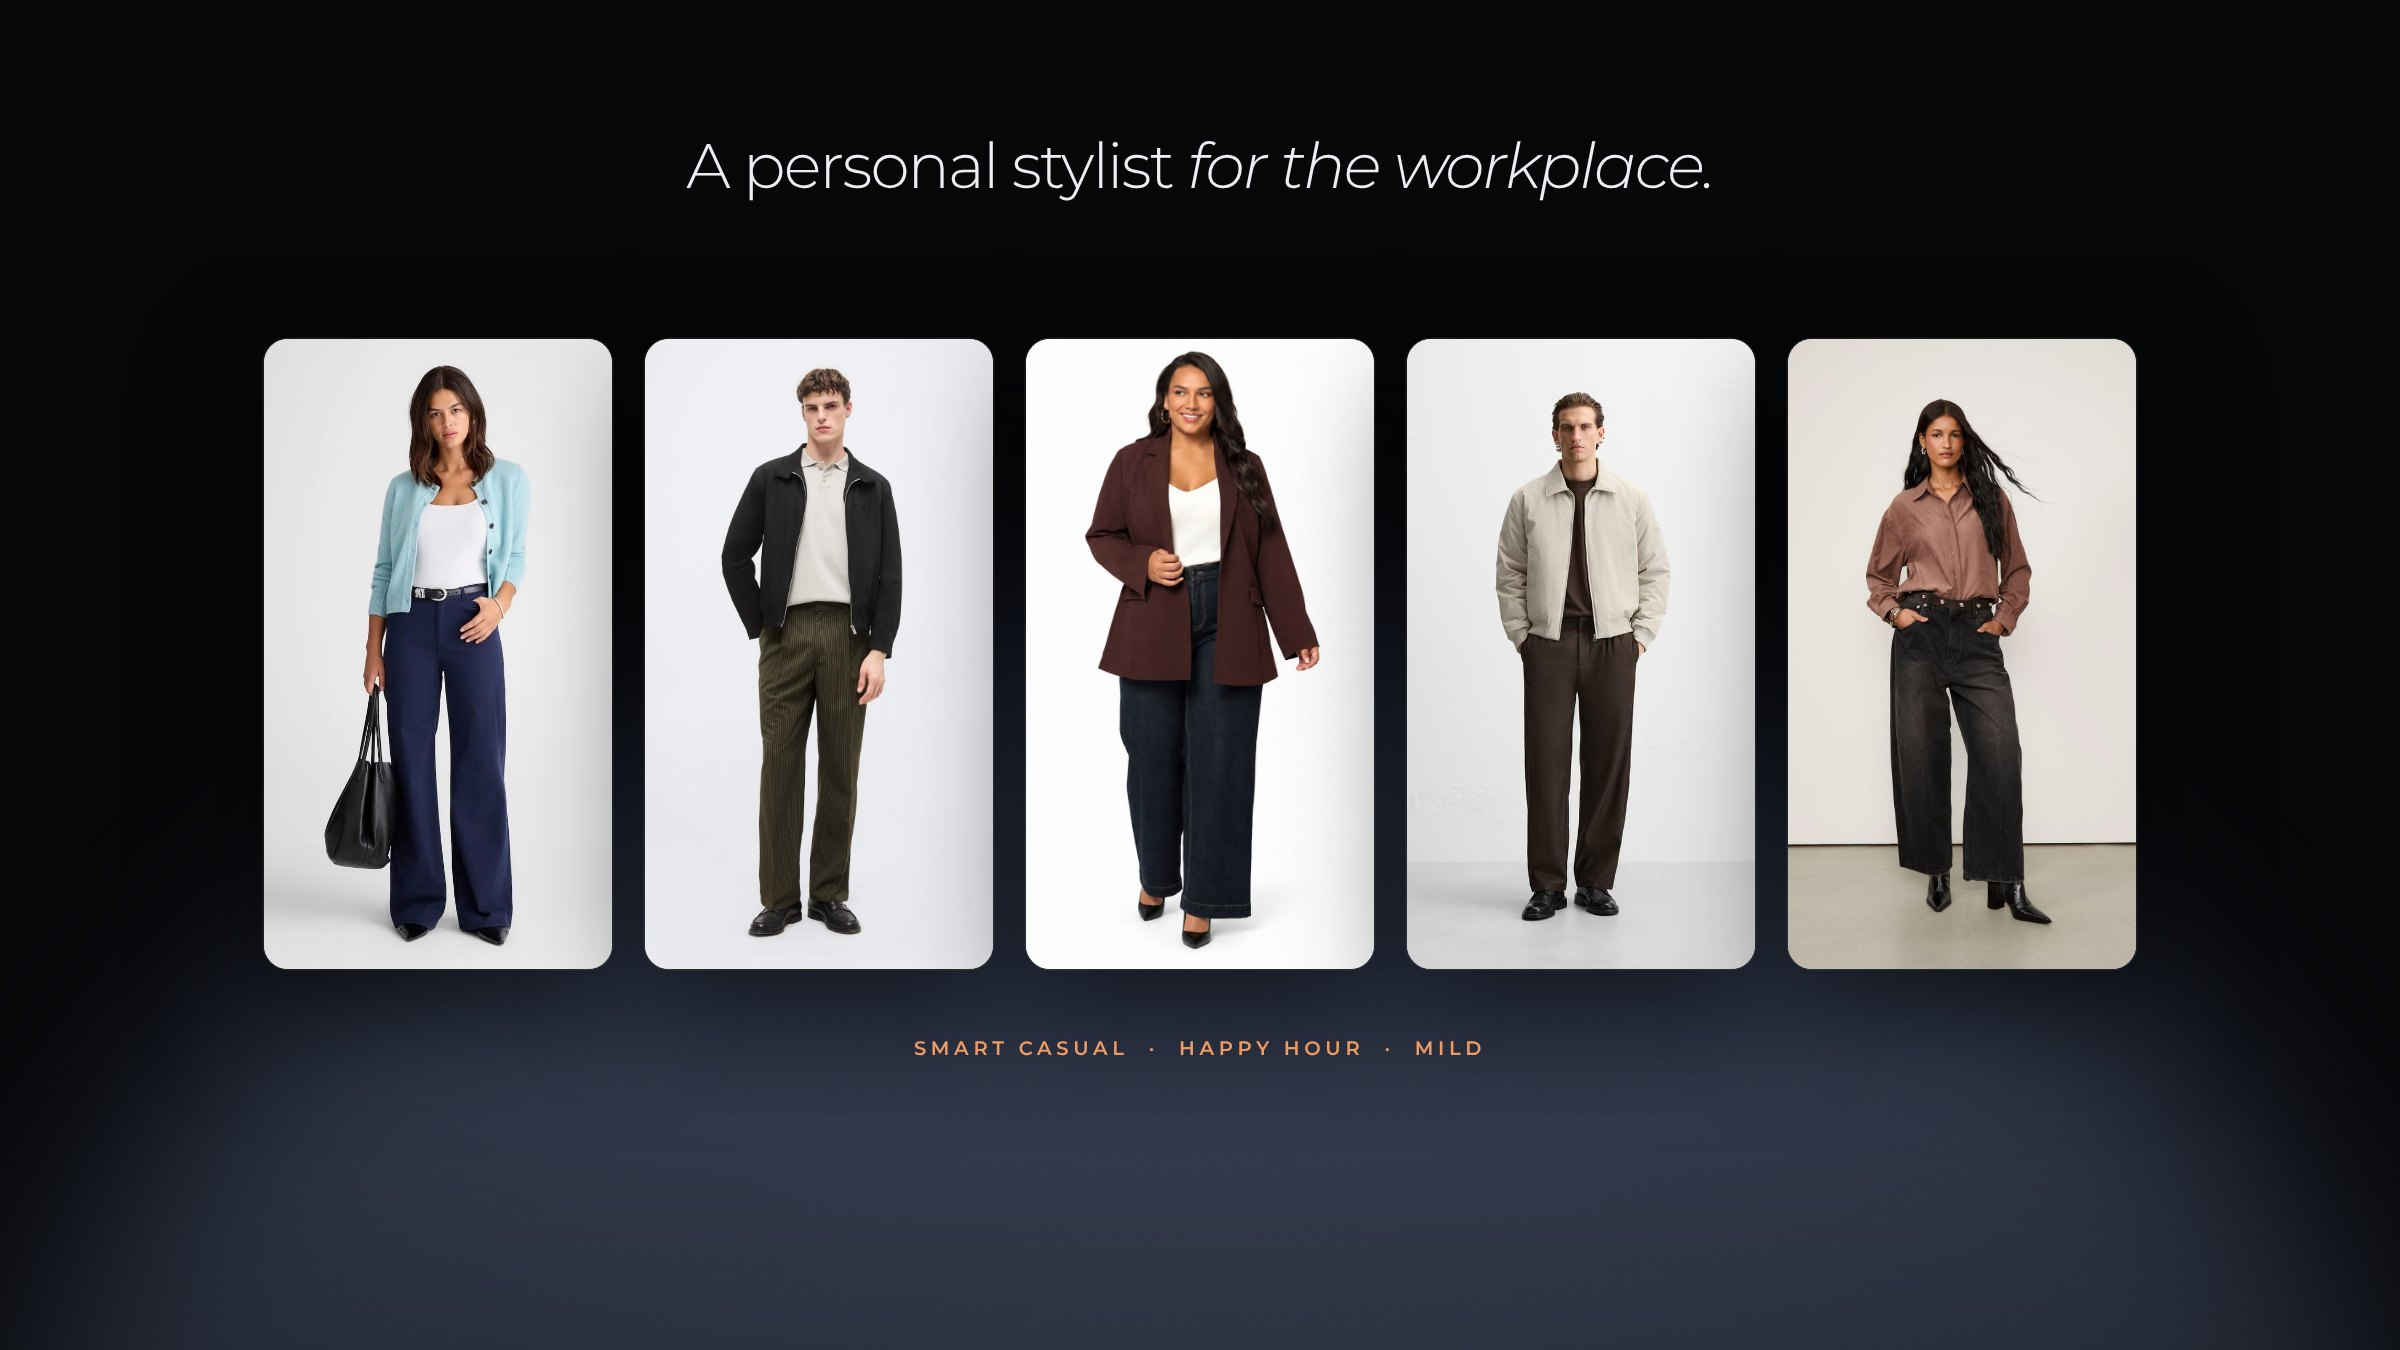
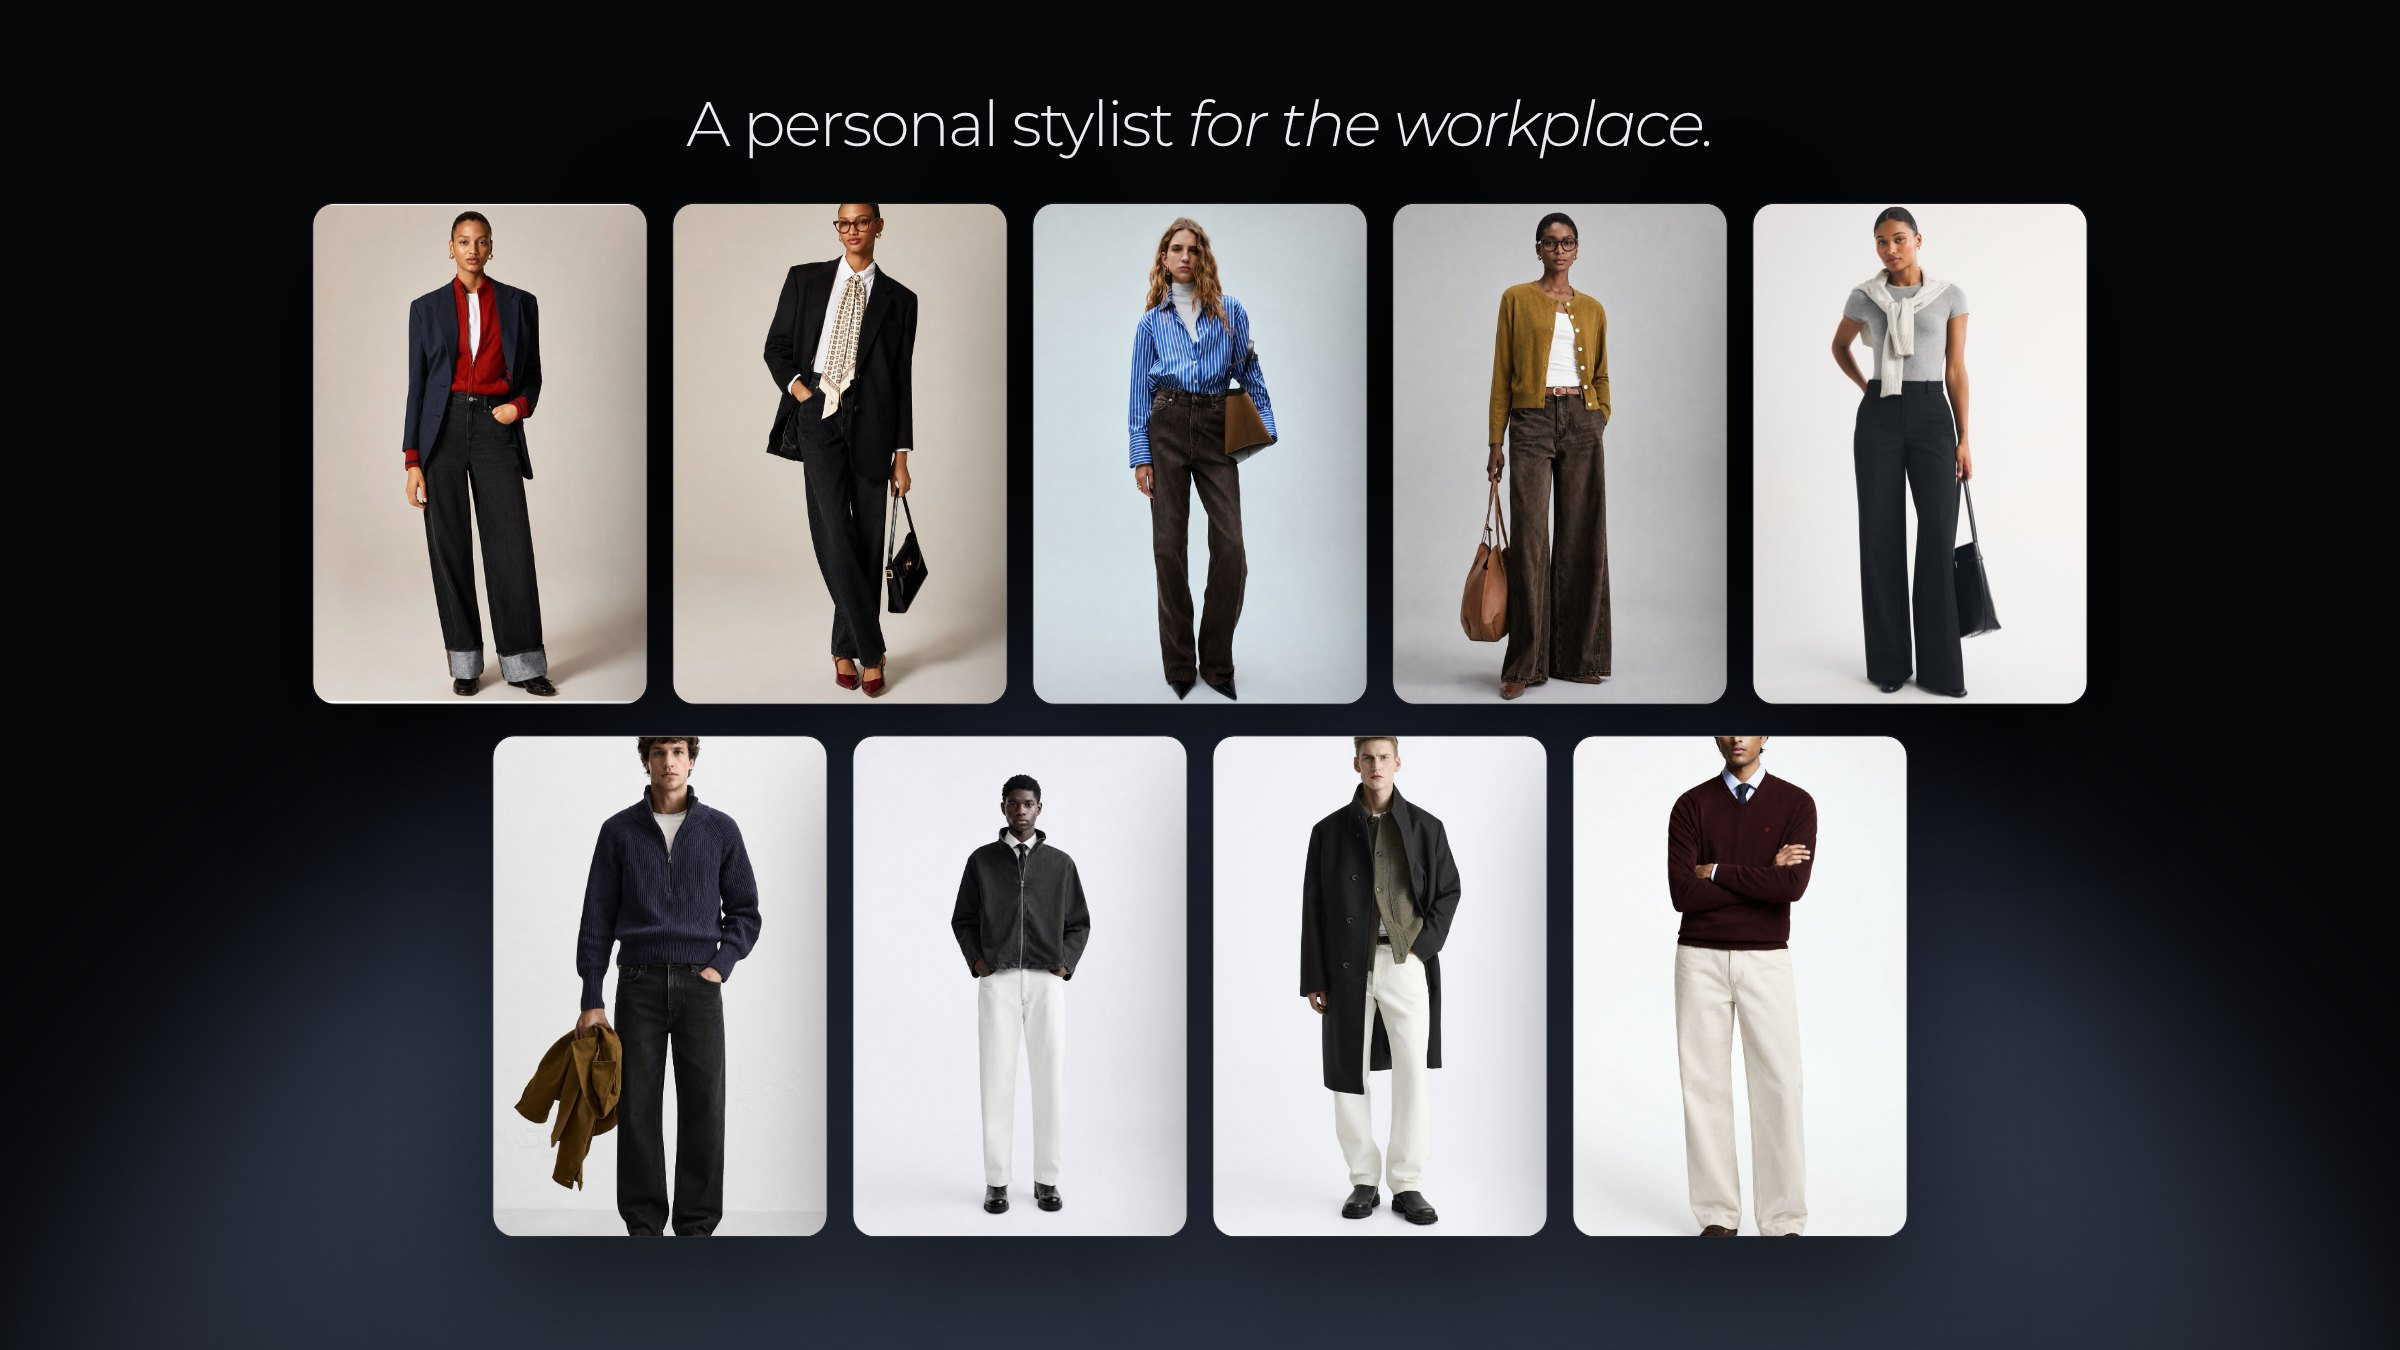
Mostra os looks escolhidos nos slides do Context
O lookbook passa a ter os cinco looks femininos e os quatro masculinos
escolhidos, e as telas de resultados abrem por eles. A tela masculina
usa happy hour no frio, onde três dos quatro entram no smart casual.

Claude-Session: https://claude.ai/code/session_01WbwawHgNyP5R64fneBLes7

diff --git a/index.html b/index.html
@@ -921,7 +921,7 @@ body.cursor-click #cursor-dot {
         </div>
         <div class="proj-images">
           <div class="case-img"><img src="assets/images/context_01.jpg" loading="lazy" alt="Context — logo sobre a esfera da marca" style="width:100%;display:block;border-radius:12px;"/></div>
-          <div class="case-img"><img src="assets/images/context_02.jpg" loading="lazy" alt="Context — looks smart casual" style="width:100%;display:block;border-radius:12px;"/></div>
+          <div class="case-img"><img src="assets/images/context_02.jpg" loading="lazy" alt="Context — looks femininos e masculinos" style="width:100%;display:block;border-radius:12px;"/></div>
           <div class="case-img"><img src="assets/images/context_03.jpg" loading="lazy" alt="Context — cinco filtros: área, ocasião, clima, estilo e guarda-roupa" style="width:100%;display:block;border-radius:12px;"/></div>
           <div class="case-img"><img src="assets/images/context_04.jpg" loading="lazy" alt="Context — os quatro níveis de vestimenta" style="width:100%;display:block;border-radius:12px;"/></div>
           <div class="case-img"><img src="assets/images/context_05.jpg" loading="lazy" alt="Context — looks sugeridos para o contexto escolhido" style="width:100%;display:block;border-radius:12px;"/></div>
